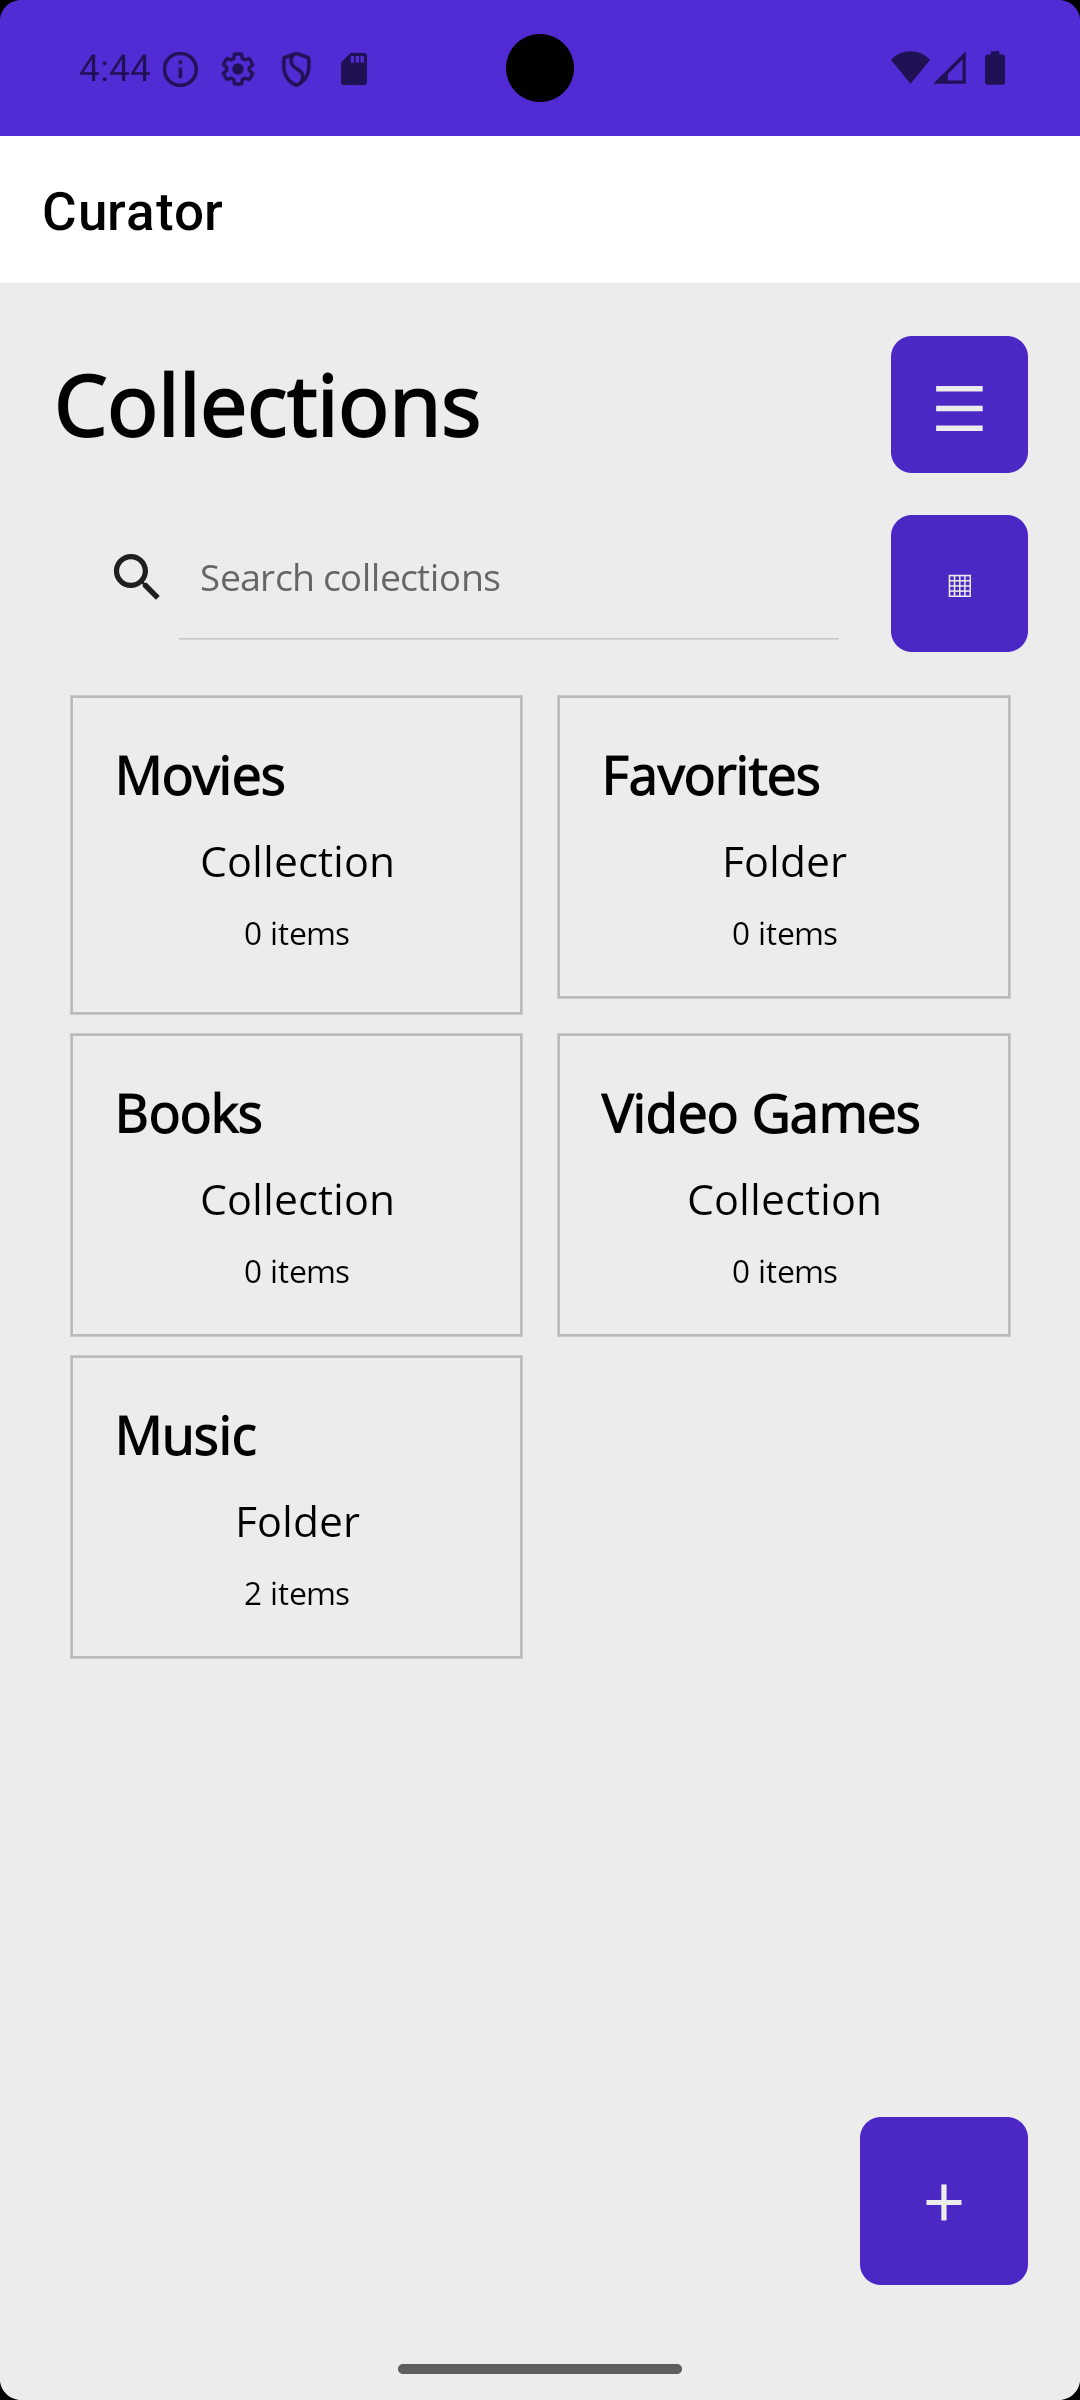
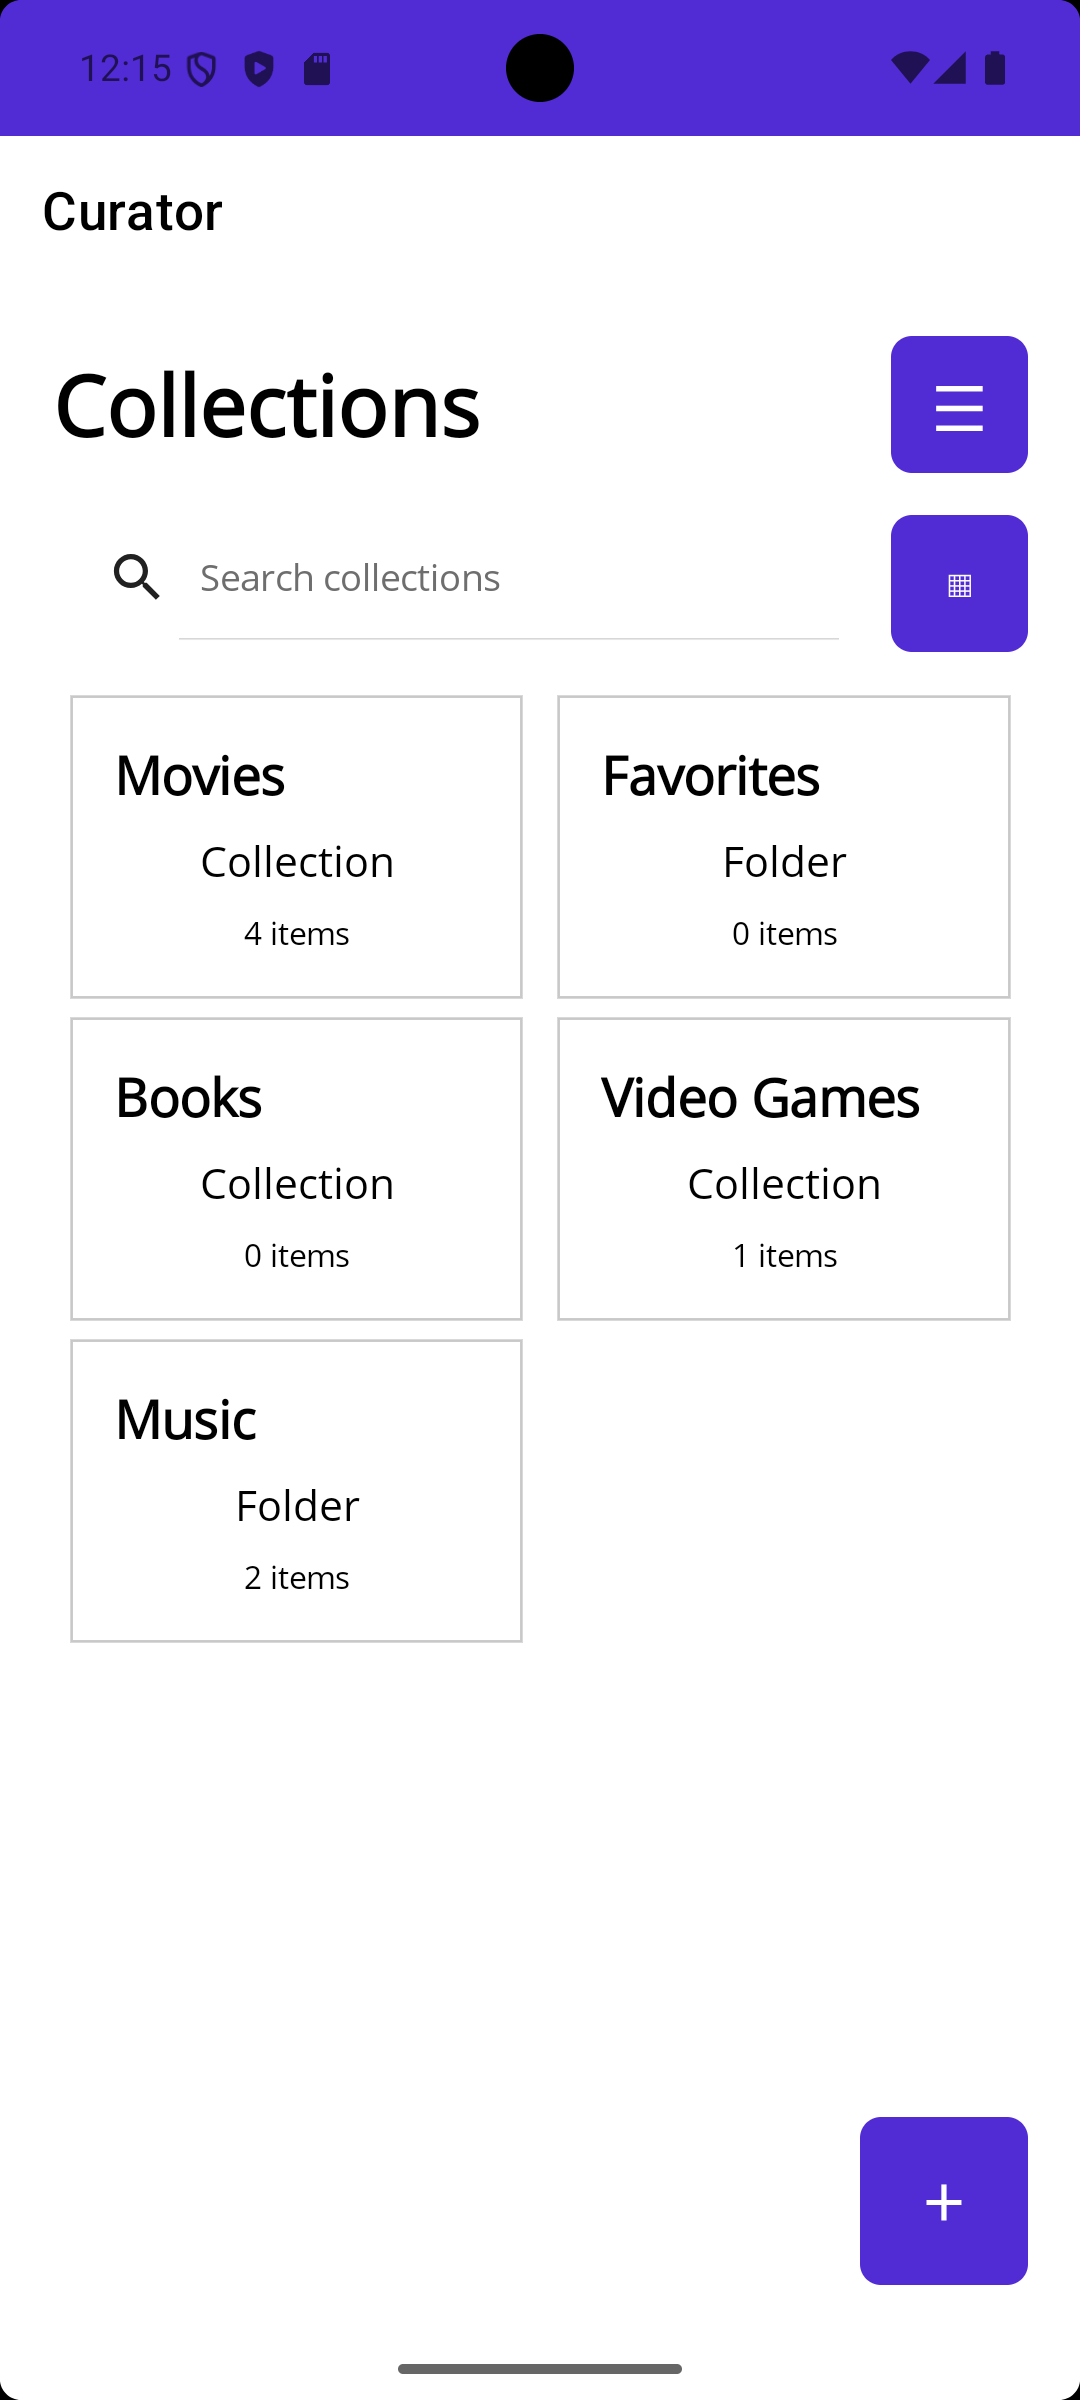
Updated README and ROADMAP
Updated for 0.12 Alpha and updated screenshots.

diff --git a/README.md b/README.md
@@ -2,7 +2,7 @@
 
 Curator is an Android collection-management app built with **C# and .NET MAUI**. It is designed to provide a simple, flexible way to organize and browse personal collections without requiring accounts, subscriptions, or unnecessary cloud services.
 
-> **Status:** Curator v0.1 Alpha — under active development. Core functionality is working, but features and UI are still evolving.
+> **Status:** Curator v0.12 Alpha — under active development. Core functionality is working, but features and UI are still evolving.
 
 ## Features
 
@@ -21,6 +21,20 @@ Curator is an Android collection-management app built with **C# and .NET MAUI**.
 
 ### Collection Management
 <img src="docs/screenshots/collection-options.png" width="300" alt="Curator collection management options">
+
+### Collection Page
+<img src="docs/screenshots/CollectionPage.png" width="300" alt="Curator collection management options">
+
+### Exhibit View Page
+<img src="docs/screenshots/ExhibitPage.png" width="300" alt="Curator collection management options">
+
+### Item Delete
+<img src="docs/screenshots/ConfirmDel.png" width="300" alt="Curator collection management options">
+
+### Add Item
+<img src="docs/screenshots/AddItem.png" width="300" alt="Curator collection management options">
+
+
 
 ## Why Curator?
 

diff --git a/ROADMAP.md b/ROADMAP.md
@@ -4,9 +4,18 @@
 
 - Collections and folders
 - Add/edit/delete/move collections
-- Add items to collections
 - Persistent SQLite storage
 - Basic navigation
+
+## 0.12 Alpha
+
+- Add items to collections
+- Persistent item storage
+- Item counts for collections
+- Item detail (Exhibit) pages
+- Item deletion
+- Collection and item navigation
+- Contextual collection and item page titles
 
 ## Later Alpha
 
